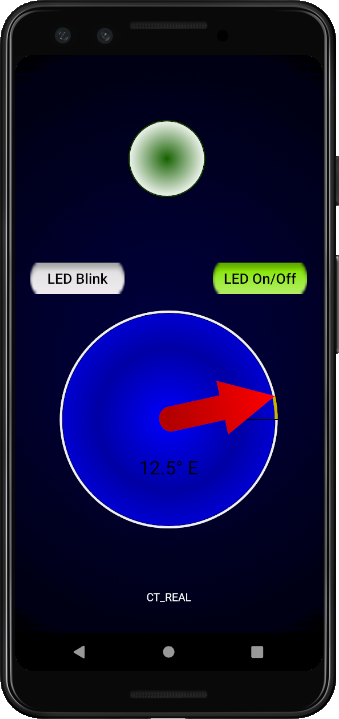
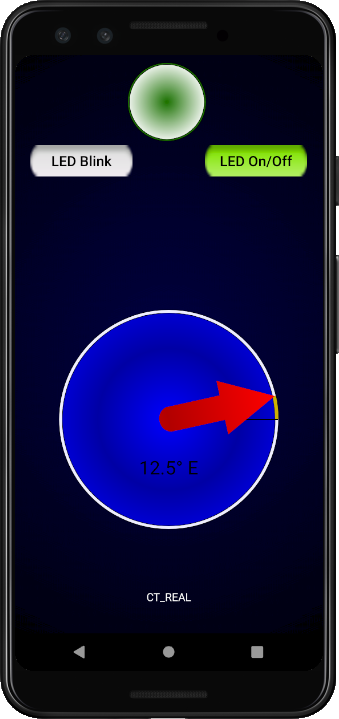
Update LEDLight, screenshots and gauge activity constraints

diff --git a/app/src/main/java/com/e/phonetest/LEDLight.java b/app/src/main/java/com/e/phonetest/LEDLight.java
@@ -157,13 +157,13 @@ public class LEDLight extends View {
 
         final Canvas canvas = new Canvas(bmp);
 
-        paintLightCircle.setShader(new RadialGradient(getWidth() / 2f, getHeight() / 2f, rect1.width() / 2f, mLED_Color, ColorUtils.blendARGB(mLED_Color, Color.WHITE, mLED_LightColorRatio), Shader.TileMode.MIRROR));
-        paintDarkCircle.setShader(new RadialGradient(getWidth() / 2f, getHeight() / 2f, rect2.width() / 3f, mLED_Color, ColorUtils.blendARGB(mLED_Color, Color.BLACK, mLED_DarkColorRatio), Shader.TileMode.MIRROR));
-
         canvas.drawBitmap(bmp, 0, 0, bmpPaint);
     }
 
     private void drawLightLED(Canvas canvas){
+        paintLightCircle.setShader(new RadialGradient(getWidth() / 2f, getHeight() / 2f, rect1.width() / 2f, mLED_Color, ColorUtils.blendARGB(mLED_Color, Color.WHITE, mLED_LightColorRatio), Shader.TileMode.MIRROR));
+        paintDarkCircle.setShader(new RadialGradient(getWidth() / 2f, getHeight() / 2f, rect2.width() / 3f, mLED_Color, mLED_Color, Shader.TileMode.MIRROR));
+
         canvas.drawOval(rect1, paintDarkCircle);
         canvas.drawOval(rect1, paintBorder);
 
@@ -172,6 +172,9 @@ public class LEDLight extends View {
     }
 
     private void drawDarkLED(Canvas canvas){
+        paintLightCircle.setShader(new RadialGradient(getWidth() / 2f, getHeight() / 2f, rect1.width() / 2f, mLED_Color, ColorUtils.blendARGB(Color.WHITE, mLED_Color, mLED_LightColorRatio), Shader.TileMode.MIRROR));
+        paintDarkCircle.setShader(new RadialGradient(getWidth() / 2f, getHeight() / 2f, rect2.width() / 3f, mLED_Color, ColorUtils.blendARGB(mLED_Color, Color.BLACK, mLED_DarkColorRatio), Shader.TileMode.MIRROR));
+
         canvas.drawOval(rect1, paintLightCircle);
         canvas.drawOval(rect1, paintBorder);
 
